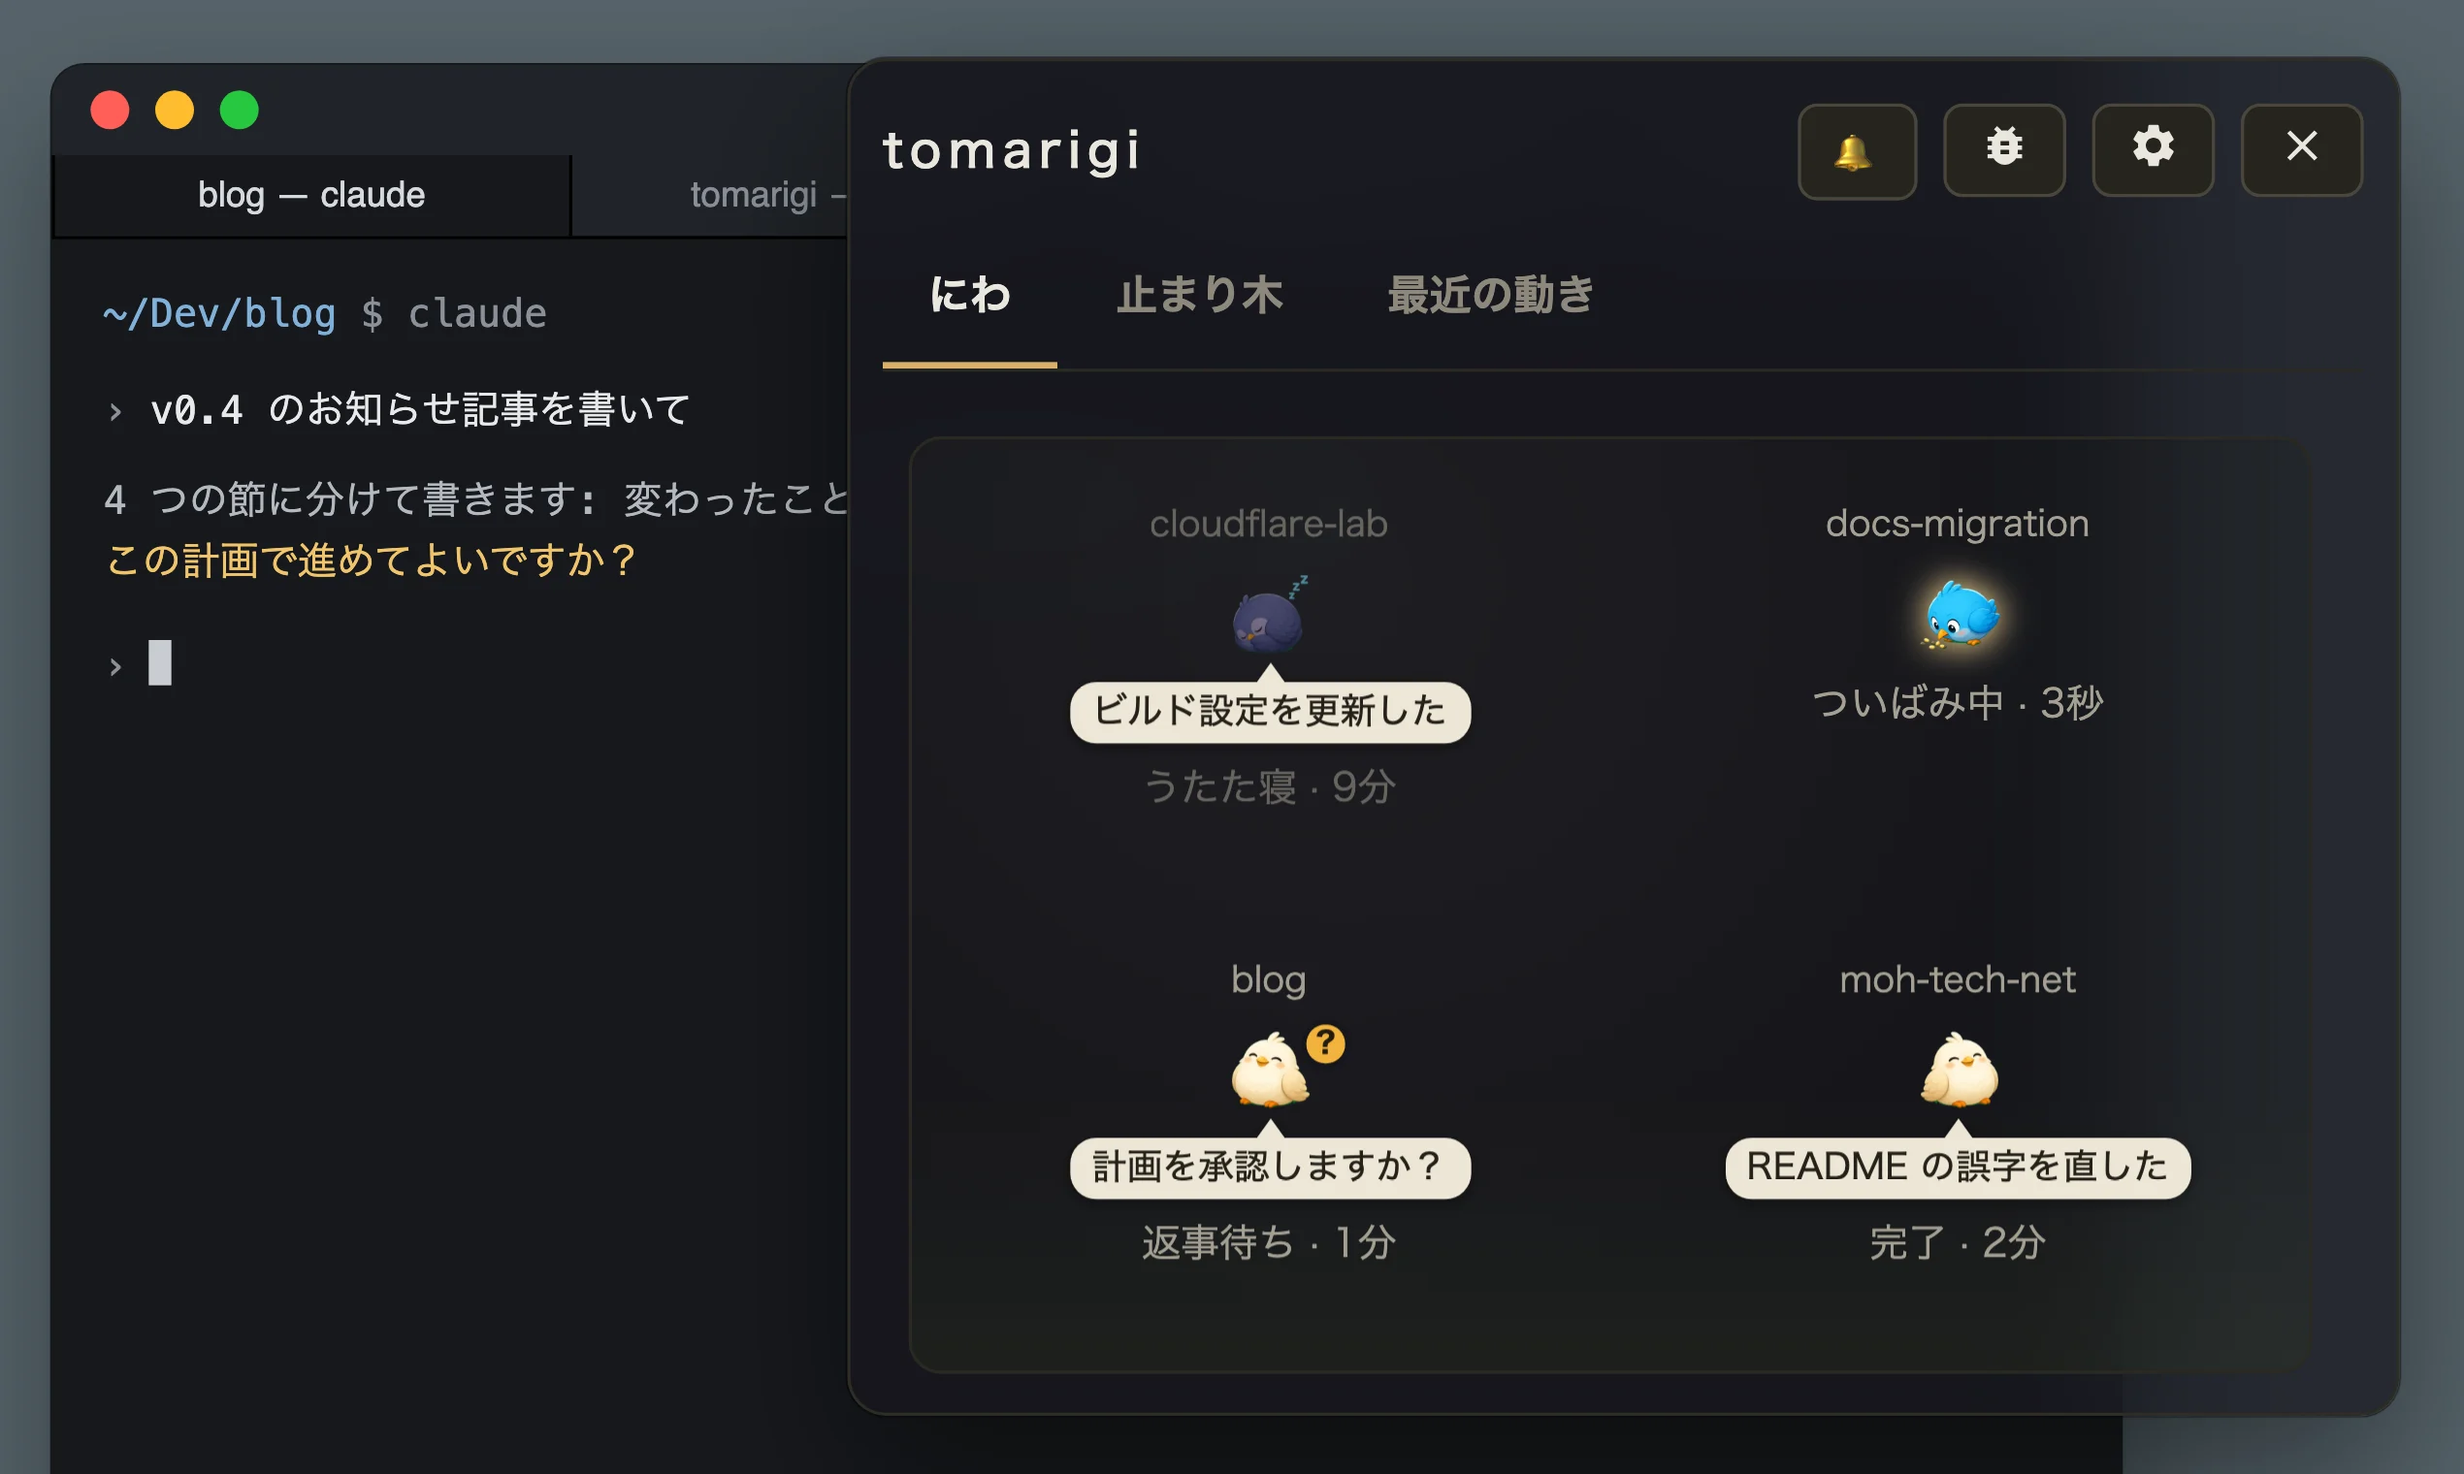
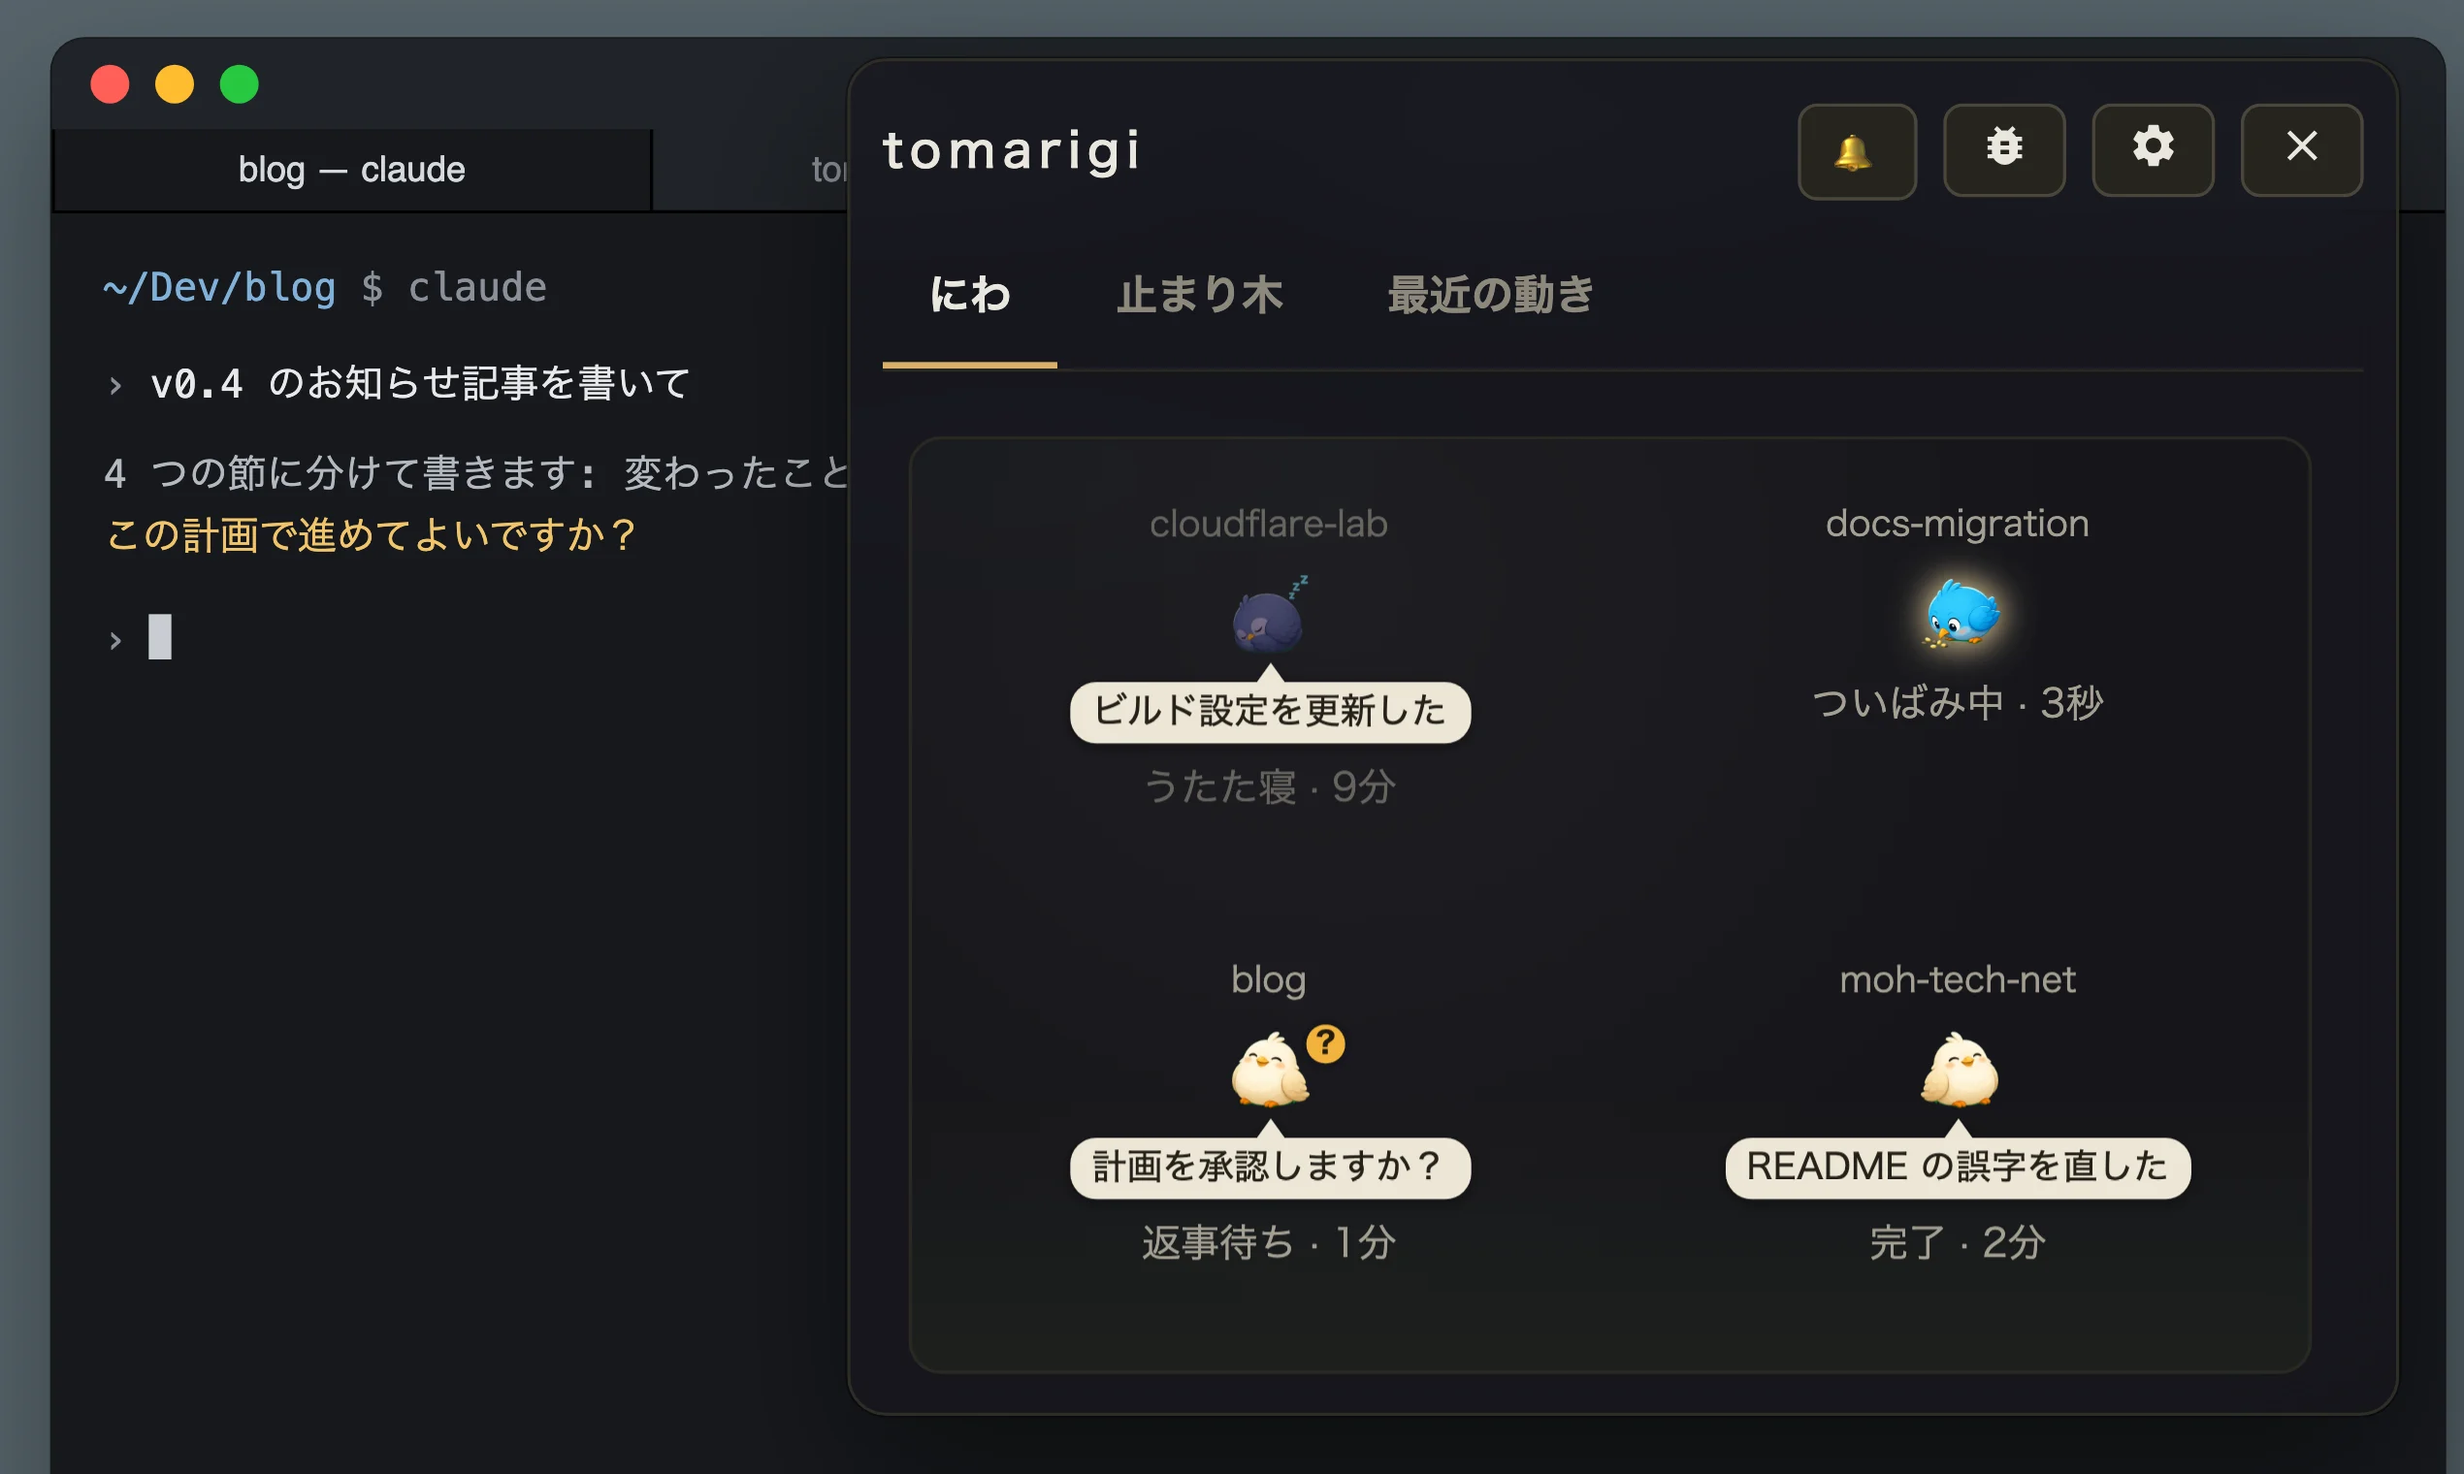
ギャラリー: 要約の場面を応答を終えた鳥だけにし、窓の後ろに端末の縁が透けないよう撮り直す
- preset gallery-bubble を「?」の無い完了の鳥 3 羽にし、返事待ちの場面と見た目を分ける
- 撮影の舞台の端末を窓の上と右より外まで広げ、すりガラス越しに端末の右端が縦帯で見えないようにする
- にわの 3 枚の窓の大きさをそろえる（480×420）
- 1 枚目の題に、触っていない間は窓が透明になり鳥と「tomarigi」の札だけが残ることを書く

diff --git a/src/perch/mock-presets.ts b/src/perch/mock-presets.ts
@@ -587,7 +587,7 @@ export const PRESETS: Preset[] = [
   {
     id: "gallery-bubble",
     label: "Gallery: bubbles",
-    build: () => ({ sessions: pick(["gallery/asking", "gallery/done"]), events: [] }),
+    build: () => ({ sessions: pick(["gallery/finished", "gallery/done", "gallery/tested"]), events: [] }),
   },
 ];
 
@@ -610,13 +610,13 @@ const GALLERY: SessionView[] = [
     question: tr("One panel or tabs?", "設定はタブに分ける？"),
   },
   {
-    id: "gallery/asking",
+    id: "gallery/finished",
     project: "figma-adapter",
     slug: "figma-adapter",
     state: "done",
-    sinceMs: 20_000,
-    ask: { status: "asking" },
-    summary: tr("Headline A or B?", "見出しは A と B のどっち？"),
+    sinceMs: 5_000,
+    ask: { status: "not_asking" },
+    summary: tr("Added three button sizes", "ボタンを 3 種類にした"),
   },
   {
     id: "gallery/done",
@@ -626,6 +626,15 @@ const GALLERY: SessionView[] = [
     sinceMs: 2 * 60_000,
     ask: { status: "not_asking" },
     summary: tr("Fixed the README typo", "README の誤字を直した"),
+  },
+  {
+    id: "gallery/tested",
+    project: "tomarigi",
+    slug: "tomarigi",
+    state: "done",
+    sinceMs: 40_000,
+    ask: { status: "not_asking" },
+    summary: tr("Wrote the settings tests", "設定のテストを書いた"),
   },
   {
     id: "gallery/dozing",

diff --git a/docs/design.md b/docs/design.md
@@ -85,7 +85,7 @@ A desktop app for macOS, Windows, and Linux (Tauri 2; see "Platforms") that watc
 - The app watches for as long as it runs and is controlled from the menu bar icon (left click toggles show/hide, right click opens the menu)
 - The menu bar icon is `src-tauri/icons/tray.png` (a template image; Tauri's tray only accepts PNG). Windows and Linux use the color app icon (`src-tauri/icons/32x32.png`) instead, since their taskbars are often dark and a black template image would disappear (Claude's own decision)
 - The app icon (Dock, Finder, Product Hunt thumbnail) shows the same blue round bird as the in-app birds icon set (`src/assets/birds/`), so the icon and the app read as the same character (the user's decision). The icons in `src-tauri/icons/` are generated from `src-tauri/app-icon.png` (1024px, transparent outside the rounded tile) with `bunx tauri icon src-tauri/app-icon.png -o <temp dir>`, then only the files already in `src-tauri/icons/` are copied in (the android / ios output isn't used; `tray.png` is separate and kept)
-- Gallery images for the README and the download page are in `docs/images/` (WebP). They are shot with `scripts/gallery/shoot.mjs`, which opens the mock in a browser (`bun run dev:web`, `?mock=1&panel=0&preset=gallery` / `gallery-asking` / `gallery-bubble`) in a frame over a desktop with a terminal, and sets the browser's language for each set. A browser rather than the app window, so the shots don't depend on the screen they are taken on and the language can be switched without changing the computer's (Claude's own decision). The frosted glass is drawn by the stage page with CSS, and the first image puts the window at rest ("Fade until hovered") by setting `data-fade="rest"`
+- Gallery images for the README and the download page are in `docs/images/` (WebP). They are shot with `scripts/gallery/shoot.mjs`, which opens the mock in a browser (`bun run dev:web`, `?mock=1&panel=0&preset=gallery` / `gallery-asking` / `gallery-bubble`) in a frame over a desktop with a terminal, and sets the browser's language for each set. A browser rather than the app window, so the shots don't depend on the screen they are taken on and the language can be switched without changing the computer's (Claude's own decision). The frosted glass is drawn by the stage page with CSS, and the first image puts the window at rest ("Fade until hovered") by setting `data-fade="rest"`. The three garden shots use the same window size, and the terminal reaches past the window's top and right edges so no terminal edge shows through the frosted glass. The bubble shot shows only birds that have finished their turn (no "?"), so it looks different from the needs-reply shot (Claude's own decision)
   - One set per language: English (app UI in English) for README.md and the English page, Japanese (app UI in Japanese) for README.ja.md and the Japanese page. Reviewers of the Japanese page flagged the English text in the images more than once (Claude's own decision to make a Japanese set)
   - No title text is baked into the image. The caption is written next to the image (README table cell, page HTML) so it can be translated and changed without reshooting (Claude's own decision)
   - All four share the same background and the same scale of the app window, so they read as one set side by side (Claude's own decision)

diff --git a/README.ja.md b/README.ja.md
@@ -4,7 +4,7 @@ AI コーディングエージェント（Claude Code・Codex・Qwen Code・GitH
 
 | | |
 |---|---|
-| <img src="docs/images/gallery-1-on-top-ja.webp" alt="ほかのウィンドウより手前に出て、後ろが透けて見える" /><br>ほかのウィンドウより手前に出て、後ろが透けて見える | <img src="docs/images/gallery-2-garden-ja.webp" alt="セッション 1 つに鳥が 1 羽" /><br>セッション 1 つに鳥が 1 羽 |
+| <img src="docs/images/gallery-1-on-top-ja.webp" alt="ほかのウィンドウより手前に出る。触っていない間は窓が透明になり、後ろのターミナルの上に鳥と「tomarigi」の札だけが残る（札を押すと窓が戻る）" /><br>ほかのウィンドウより手前に出る。触っていない間は窓が透明になり、後ろのターミナルの上に鳥と「tomarigi」の札だけが残る（札を押すと窓が戻る） | <img src="docs/images/gallery-2-garden-ja.webp" alt="セッション 1 つに鳥が 1 羽" /><br>セッション 1 つに鳥が 1 羽 |
 | <img src="docs/images/gallery-3-needs-reply-ja.webp" alt="エージェントが返事を待っていると「?」が出る" /><br>エージェントが返事を待っていると「?」が出る | <img src="docs/images/gallery-4-bubble-ja.webp" alt="エージェントの応答が終わると、吹き出しに中身の要約が出る" /><br>エージェントの応答が終わると、吹き出しに中身の要約が出る |
 
 > [!IMPORTANT]

diff --git a/README.md b/README.md
@@ -6,7 +6,7 @@ A desktop app for macOS, Windows, and Linux (the Windows and Linux builds haven'
 
 | | |
 |---|---|
-| <img src="docs/images/gallery-1-on-top-en.webp" alt="Stays on top of your other windows, and you can see through it" /><br>Stays on top of your other windows, and you can see through it | <img src="docs/images/gallery-2-garden-en.webp" alt="One bird for each agent session" /><br>One bird for each agent session |
+| <img src="docs/images/gallery-1-on-top-en.webp" alt="Stays on top of your other windows. While you're not using it, the window turns clear, leaving only the birds and the “tomarigi” tag over the terminal behind (click the tag to bring the window back)" /><br>Stays on top of your other windows. While you're not using it, the window turns clear, leaving only the birds and the “tomarigi” tag over the terminal behind (click the tag to bring the window back) | <img src="docs/images/gallery-2-garden-en.webp" alt="One bird for each agent session" /><br>One bird for each agent session |
 | <img src="docs/images/gallery-3-needs-reply-en.webp" alt="A question mark shows up when the agent is waiting on you" /><br>A question mark shows up when the agent is waiting on you | <img src="docs/images/gallery-4-bubble-en.webp" alt="When a turn ends, the bubble sums it up" /><br>When a turn ends, the bubble sums it up |
 
 > [!IMPORTANT]
